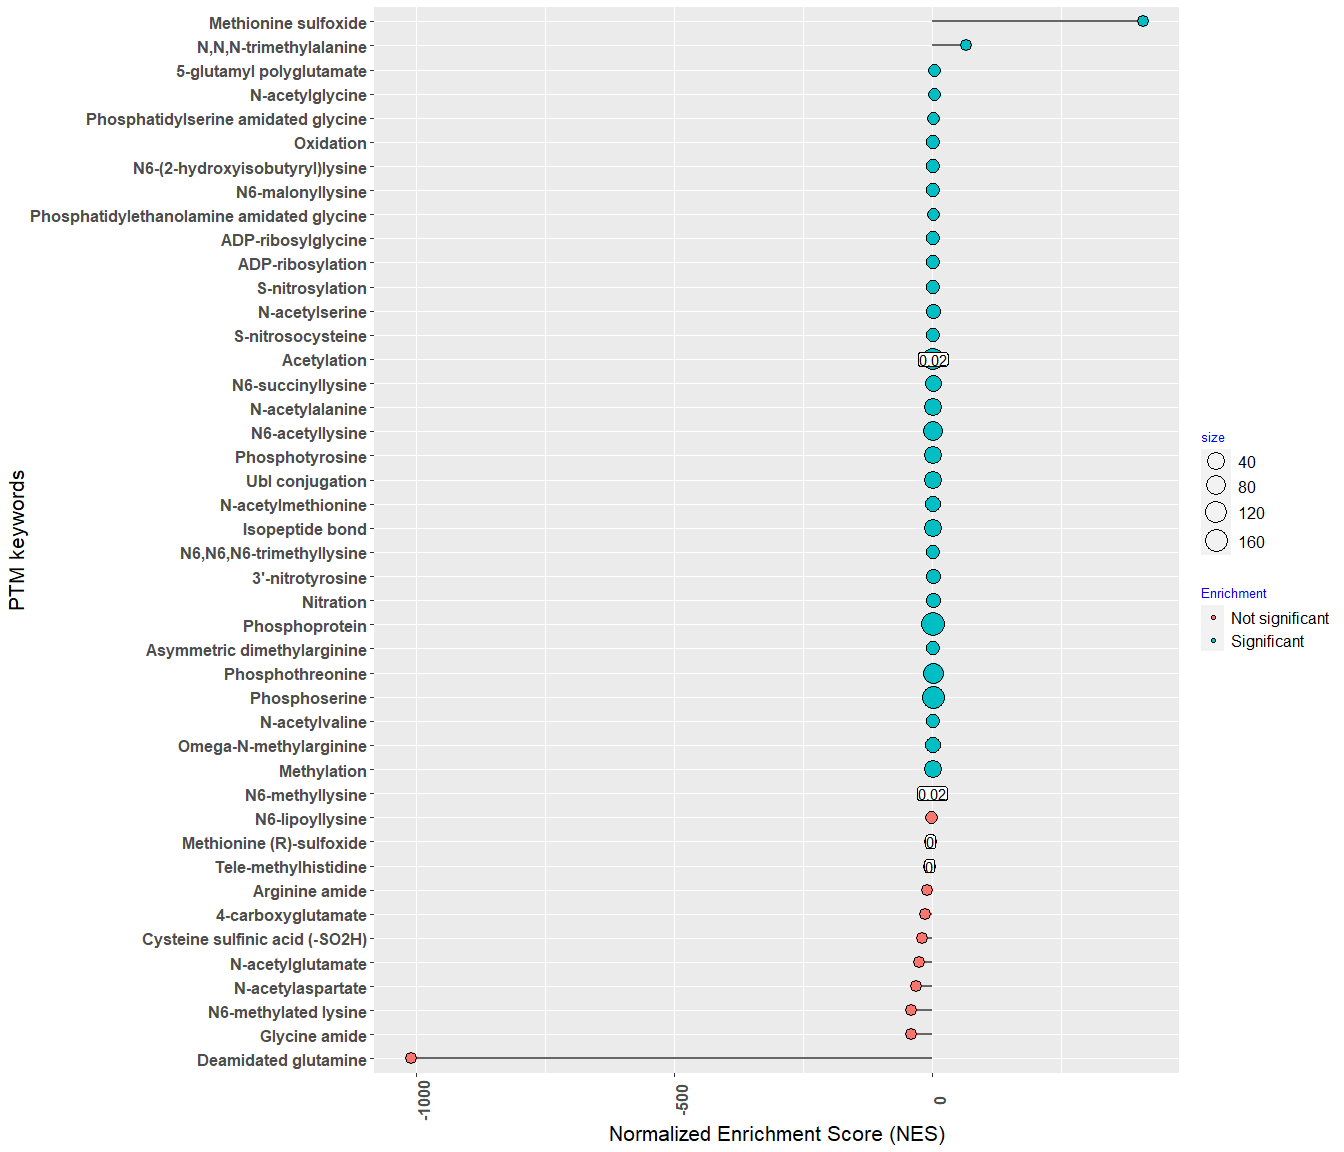
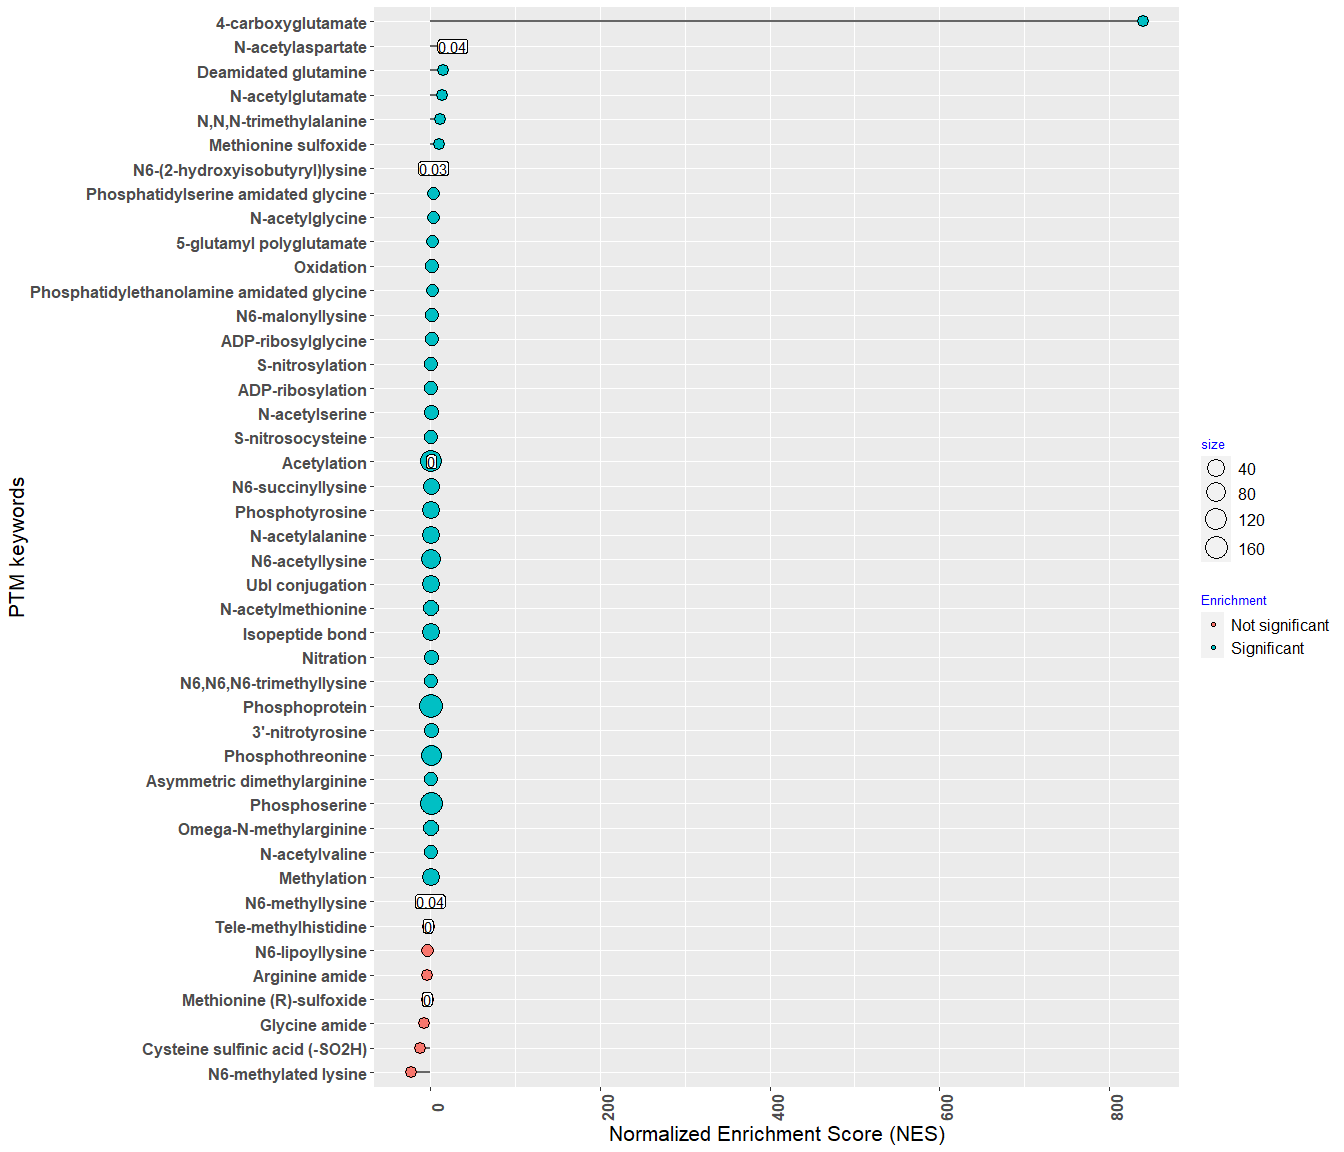
Update README

diff --git a/README.md b/README.md
@@ -15,12 +15,12 @@ Releases](https://cranlogs.r-pkg.org/badges/PEIMAN2)](https://github.com/jafaril
 
 <!-- badges: end -->
 
-The PEIMAN2 package $$@PEIMAN2$$ provides functions and mined database
-from UniProt for single enrichment analysis (SEA) and protein set
-enrichment analysis (PSEA) in a list of protein. The database is updated
-regularly with monthly changes in UniProt/SwissProt repository. To
-ensure you have the latest version of database, make sure to install the
-package from GitHub.
+The PEIMAN2 package @PEIMAN2 provides functions and mined database from
+UniProt for single enrichment analysis (SEA) and protein set enrichment
+analysis (PSEA) in a list of protein. The database is updated regularly
+with monthly changes in UniProt/SwissProt repository. To ensure you have
+the latest version of database, make sure to install the package from
+GitHub.
 
 ## Installation
 
@@ -133,12 +133,12 @@ head(psea_res[[1]], n = 6)
     ## 5              N-acetylglutamate 0e+00   0e+00             1          1
     ## 6                N6-acetyllysine 1e-14   1e-13           994         73
     ##           ES        NES nMoreExtreme size      Enrichment
-    ## 1  0.7521522   1.198764            2  123     Significant
-    ## 2  0.7707317   1.502098           37    4     Significant
-    ## 3  0.9423077 -19.938962            8    1 Not significant
-    ## 4 -0.9615385 -31.796502            9    1 Not significant
-    ## 5 -0.9663462 -25.902062            5    1 Not significant
-    ## 6  0.7226249   1.144075            5   73     Significant
+    ## 1  0.7521522   1.194280            0  123     Significant
+    ## 2  0.7707317   1.540543           28    4     Significant
+    ## 3  0.9423077 -11.832636            8    1 Not significant
+    ## 4 -0.9615385  26.199741            4    1     Significant
+    ## 5 -0.9663462  14.459402            6    1     Significant
+    ## 6  0.7226249   1.128147            5   73     Significant
     ##                                                                                                                                                                                                                                                                                                                                                                                                                                                                                                                                                                                                                                                                                                                                                                                                                                                                                                                                                                                                                       AC
     ## 1 P0C1X8; P11030; P60711; P63259; Q63028; Q62847; Q62848; Q9WUC4; P31399; P29419; P21571; P15999; D3ZAF6; Q9JJW3; O08839; P0DP29; P0DP30; P0DP31; P18418; P26772; P63039; B0K020; P08081; P08082; P45592; Q91ZN1; P11240; Q63768; P10715; P62898; Q9JHL4; Q7M0E3; P62628; Q07266; P84060; P62870; P15429; P07323; P60841; P56571; B0BN94; P55053; P55051; P07483; Q62658; Q32PX7; Q99PF5; Q5XI73; Q63228; P62994; P01946; P02091; P11517; P62959; P82995; P34058; P27321; Q5XI72; P50411; Q6AXU6; Q5BK20; P11980; Q99MZ8; Q792I0; Q66HF9; P15205; Q5M7W5; P02688; B0BN72; P30904; O35763; P62775; Q71UE8; Q9JJ19; P13084; Q01205; P08461; Q920Q0; O88767; P04785; P31044; O55012; P10111; Q6J4I0; Q9R063; Q9EPC6; P02625; Q63475; P51583; Q68A21; P02401; P62982; P62859; Q6RJR6; Q9JK11; Q63945; B0BN85; P07632; Q66HL2; P28042; O35814; P13668; P37377; Q62880; P19332; P68370; Q6P9V9; Q6AYZ1; Q68FR8; Q5XIF6; Q6PEC1; P11232; P62076; P62078; Q9WV97; P48500; P04692; P58775; Q63610; P09495; Q7M767; Q9Z1A5; P63045
     ## 2                                                                                                                                                                                                                                                                                                                                                                                                                                                                                                                                                                                                                                                                                                                                                                                                                                                                                                                                                                                         P62986; P62982; P0CG51; Q63429
@@ -176,16 +176,22 @@ psea2mass(x = psea_res, sig.level = 0.05)
 
     ##      MOD_ID                     name
     ## 1 MOD:00064       N6-acetyl-L-lysine
-    ## 2 MOD:00085       N6-methyl-L-lysine
-    ## 3 MOD:00322    1'-methyl-L-histidine
-    ## 4 MOD:00053 N-acetyl-L-glutamic acid
+    ## 2 MOD:00060        N-acetyl-L-serine
+    ## 3 MOD:00085       N6-methyl-L-lysine
+    ## 4 MOD:00322    1'-methyl-L-histidine
+    ## 5 MOD:00051 N-acetyl-L-aspartic acid
+    ## 6 MOD:00685   deamidated L-glutamine
     ##                                                                                                                                                                                                                                                           def
     ## 1 "converts an L-lysine residue to N6-acetyl-L-lysine." [ChEBI:17752, DeltaMass:214, OMSSA:24, PubMed:11369851, PubMed:11857757, PubMed:11999733, PubMed:12175151, PubMed:14730666, PubMed:15350136, PubMed:1680872, PubMed:670159, RESID:AA0055, Unimod:1#K]
-    ## 2                                                                                                              "converts an L-lysine residue to N6-methyl-L-lysine." [ChEBI:17604, DeltaMass:165, PubMed:11875433, PubMed:3926756, RESID:AA0076, Unimod:34#K]
-    ## 3                                                                                "converts an L-histidine residue to tele-methyl-L-histidine." [PubMed:10601317, PubMed:11474090, PubMed:11875433, PubMed:6692818, PubMed:8076, PubMed:8645219, RESID:AA0317]
-    ## 4                                                                                                                                              "converts an L-glutamic acid residue to N-acetyl-L-glutamic acid." [ChEBI:17533, PubMed:6725286, RESID:AA0044]
+    ## 2                                                    "converts an L-serine residue to N-acetyl-L-serine." [PubMed:11857757, PubMed:11999733, PubMed:12175151, PubMed:14730666, PubMed:15350136, PubMed:1880797, PubMed:2106685, PubMed:6997045, RESID:AA0051]
+    ## 3                                                                                                              "converts an L-lysine residue to N6-methyl-L-lysine." [ChEBI:17604, DeltaMass:165, PubMed:11875433, PubMed:3926756, RESID:AA0076, Unimod:34#K]
+    ## 4                                                                                "converts an L-histidine residue to tele-methyl-L-histidine." [PubMed:10601317, PubMed:11474090, PubMed:11875433, PubMed:6692818, PubMed:8076, PubMed:8645219, RESID:AA0317]
+    ## 5                                                                                                                              "converts an L-aspartic acid residue to N-acetyl-L-aspartic acid." [ChEBI:21547, PubMed:1560020, PubMed:2395459, RESID:AA0042]
+    ## 6                                                                         "converts an L-glutamine residue to L-glutamic acid." [PubMed:1881881, PubMed:4565668, PubMed:4922541, PubMed:6692818, PubMed:9192900, PubMed:957425, RESID:AA0006#GLN, Unimod:7#Q]
     ##   FreqinList
     ## 1         73
-    ## 2          9
-    ## 3          2
-    ## 4          1
+    ## 2         11
+    ## 3          9
+    ## 4          2
+    ## 5          1
+    ## 6          1
